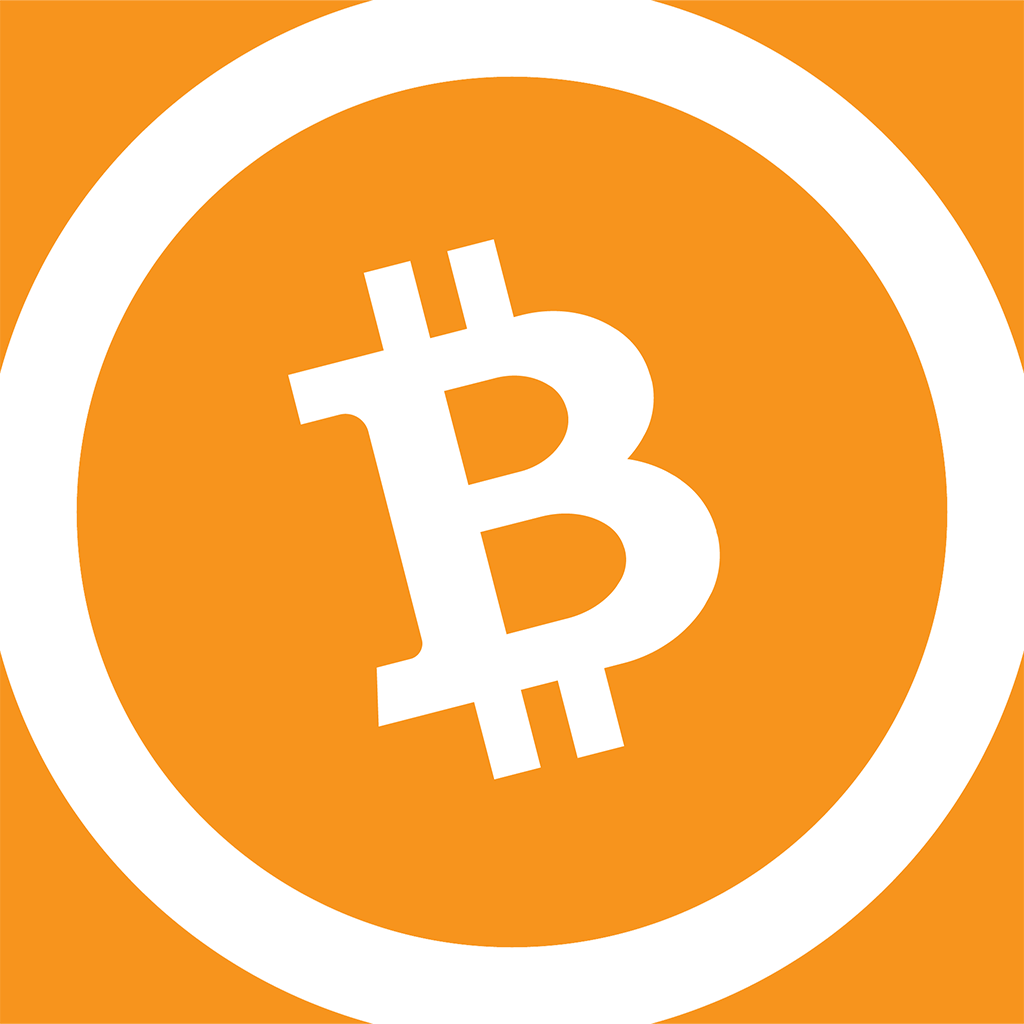
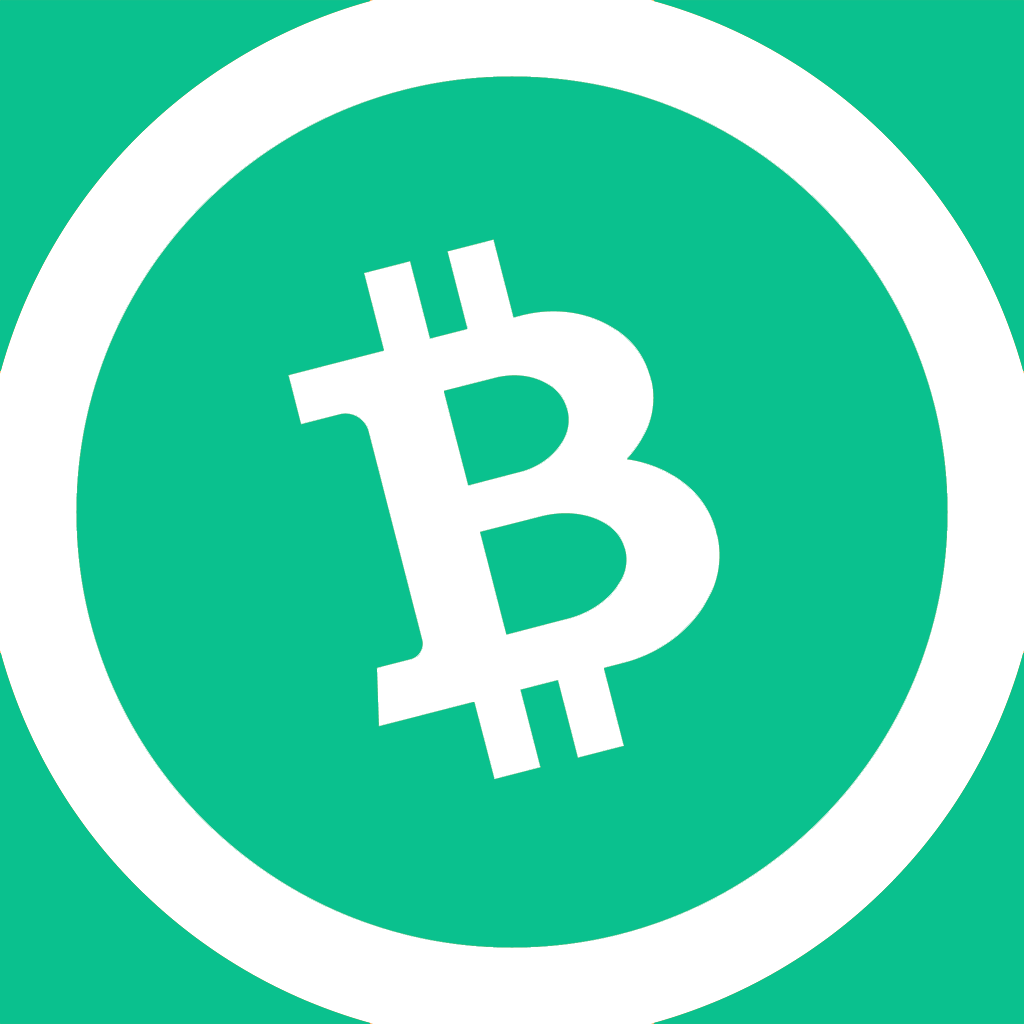
Updating some assets

diff --git a/themes/spaceBadger.js b/themes/spaceBadger.js
@@ -14,11 +14,10 @@ type Theme = {
 };
 
 const spaceBadger: Theme = {
-  primary400: "#2bbf96",
-  primary500: "#29B38C",
+  primary500: "#0AC18E",
   accent500: "#F5871A",
   accent900: "#FEF5EC",
-  fg100: "#131720",
+  fg100: "#111724",
   fg200: "#454c53",
   fg300: "#7d7d7d",
   fg500: "#ababab",

diff --git a/CHANGELOG.md b/CHANGELOG.md
@@ -1,5 +1,13 @@
 # Badger Wallet changelog
 
+## 0.8.0
+
+- Re-branding full app and BCH references from the previous orange colour to the new exciting green colour.
+
+## 0.7.1
+
+- Fixing an edge case app crash
+
 ## 0.7.0
 
 ### Features / Improvements

diff --git a/README.md b/README.md
@@ -86,6 +86,10 @@ To run production build locally
 > react-native log-android
 ```
 
+### Icon / Splash Screen Generation
+
+- https://github.com/bamlab/generator-rn-toolbox
+
 ### Nuke all and install command, for when things don't work
 
 ```bash
